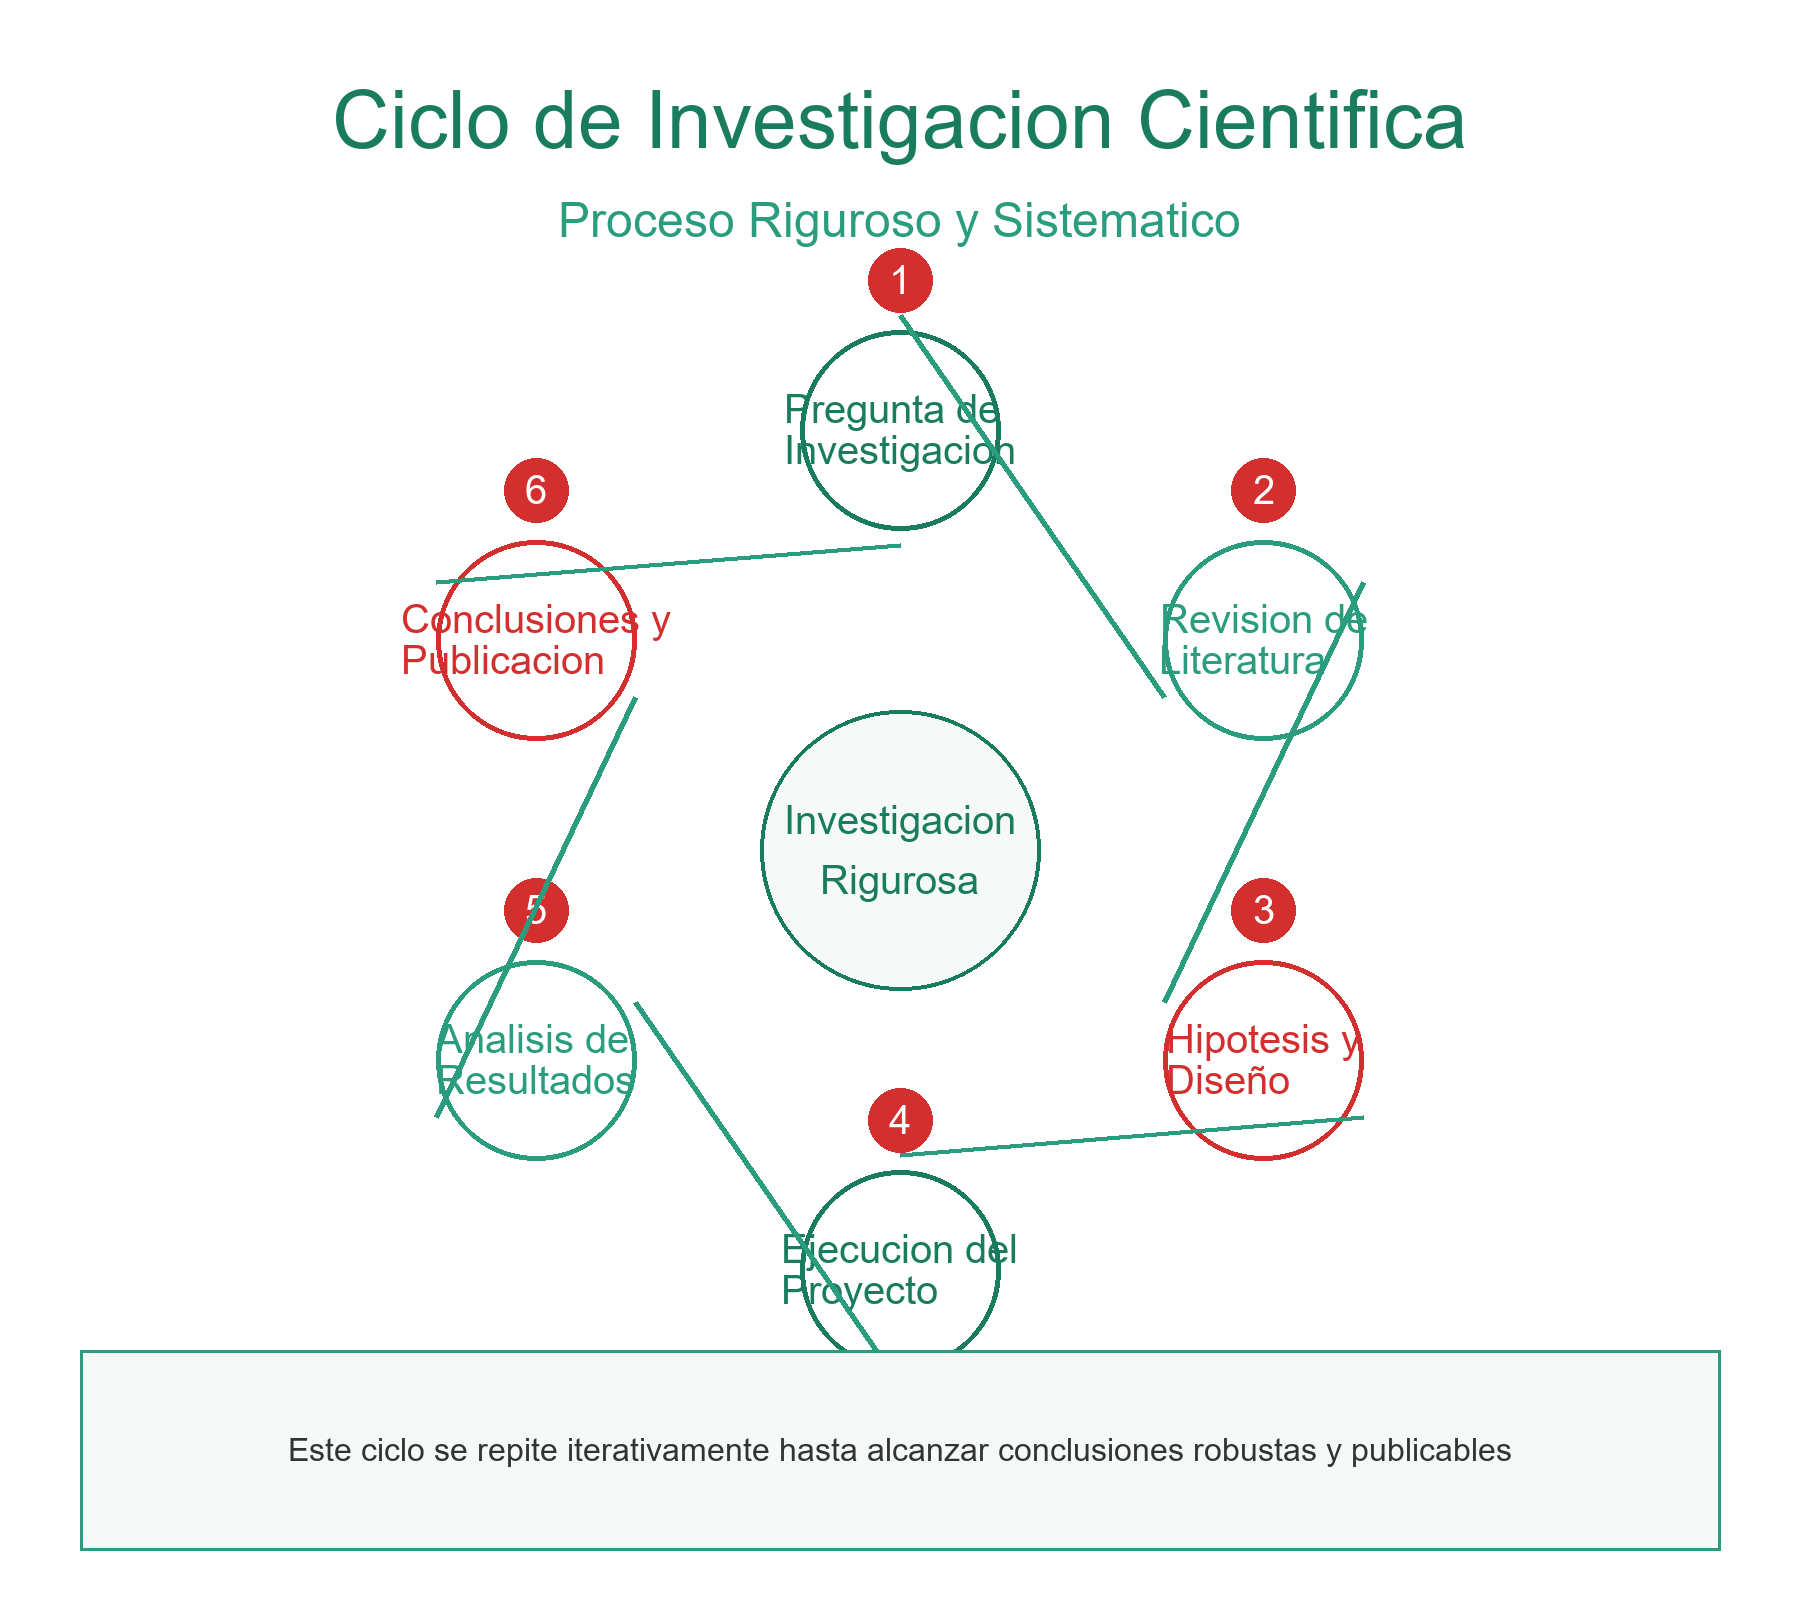
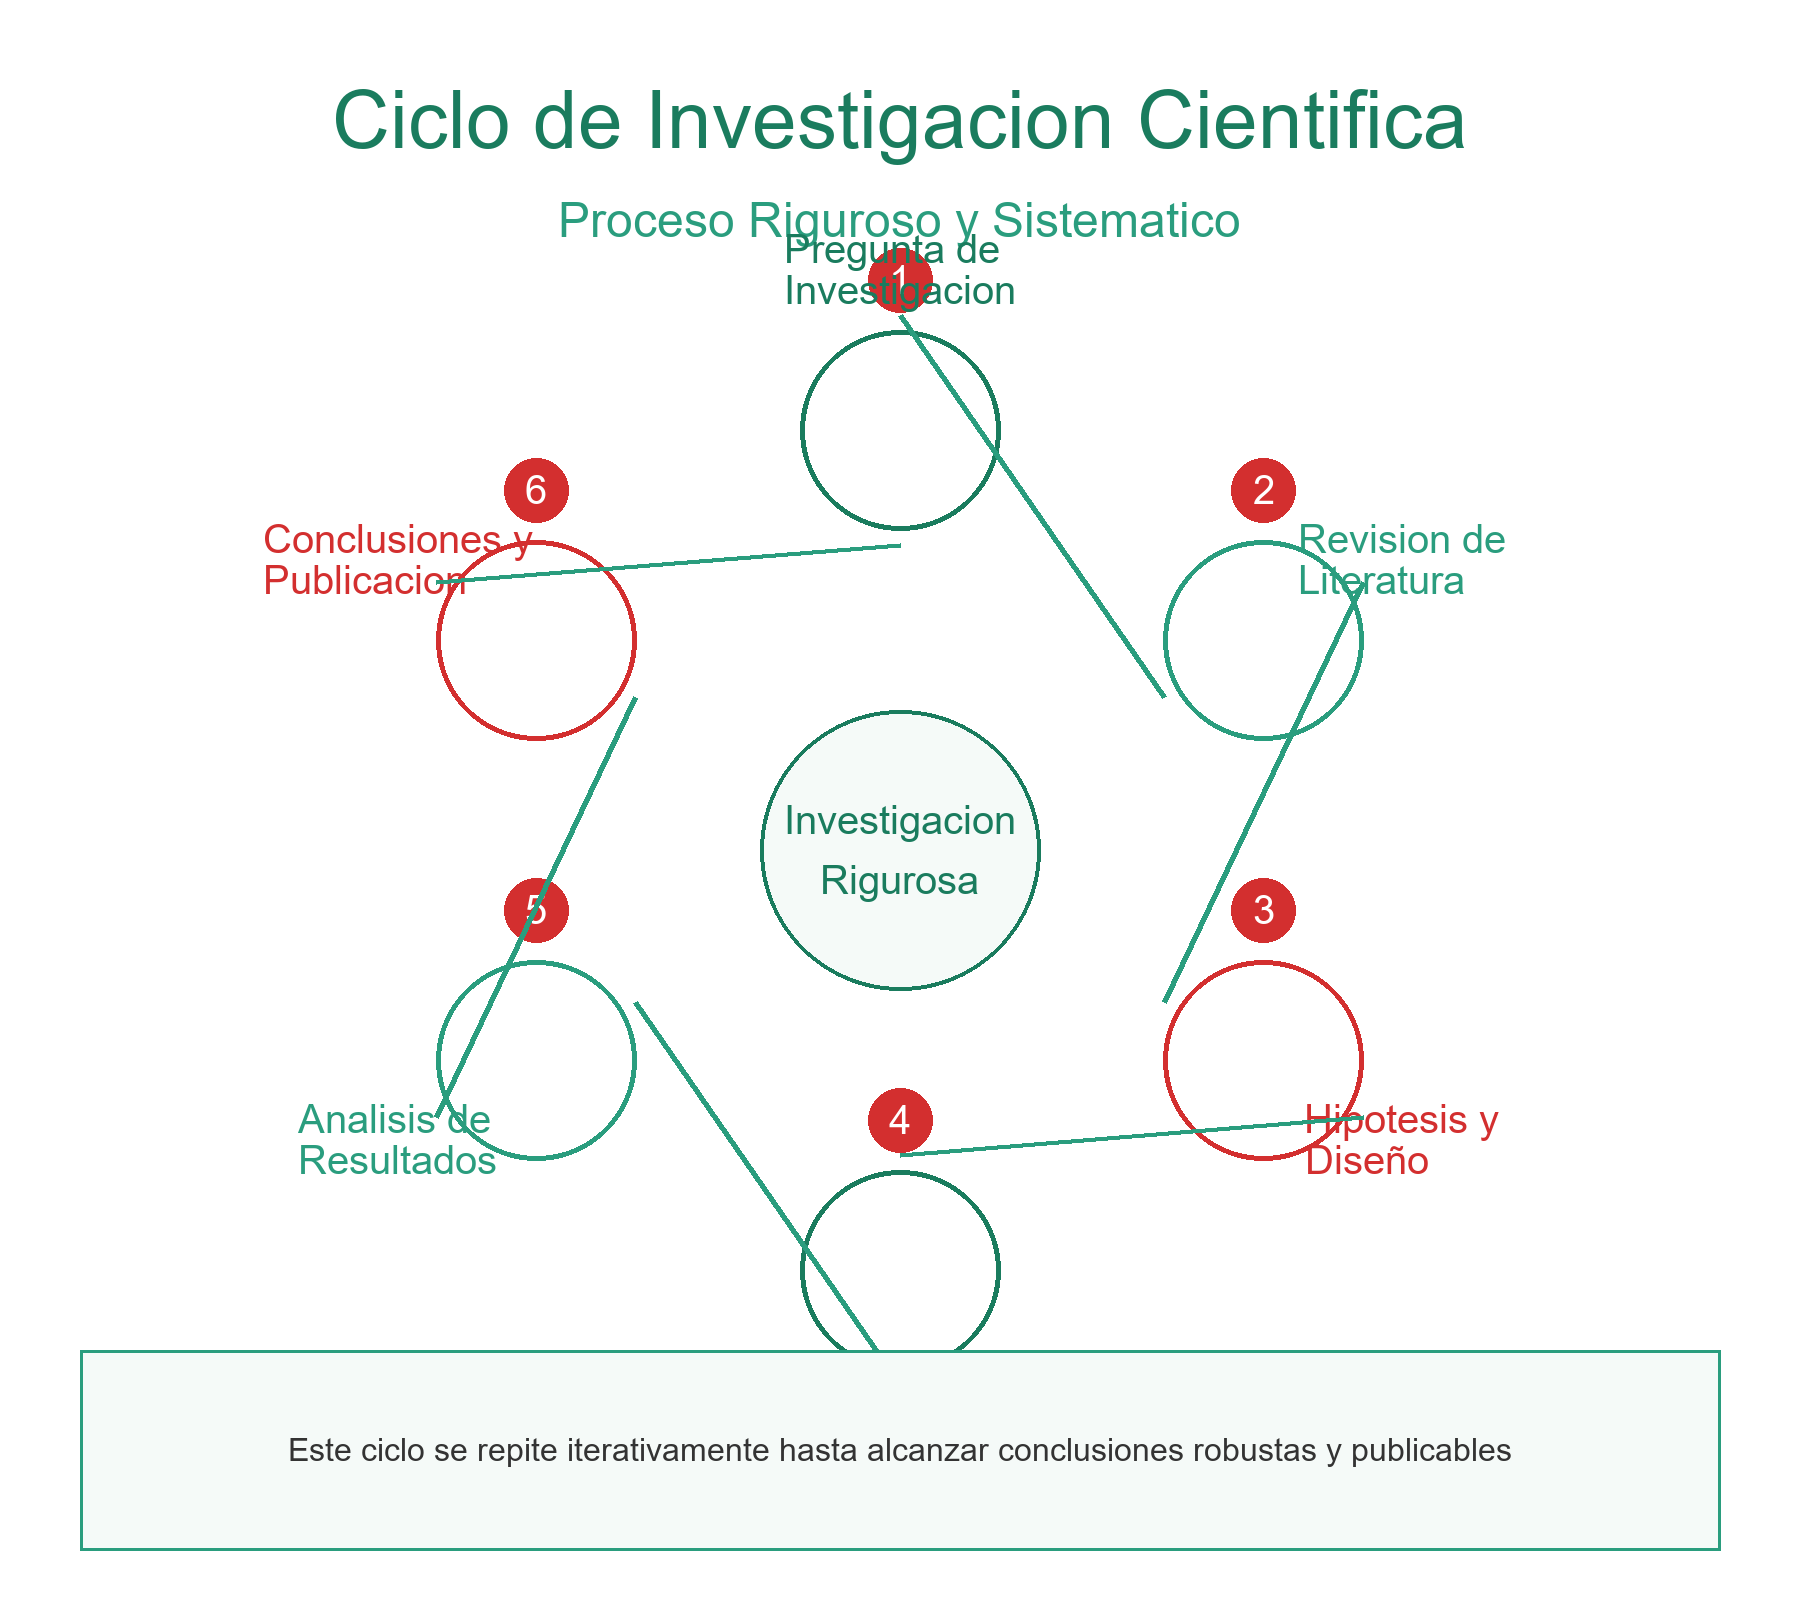
improve: Position cycle diagram labels outside circles for better clarity

diff --git a/Pagina Web/generate_research_diagrams_pil.py b/Pagina Web/generate_research_diagrams_pil.py
@@ -195,8 +195,11 @@ for i, title in enumerate(cycle_steps):
     draw2.text((x, num_y), str(i+1),
                font=step_title_font, fill='white', anchor="mm")
     
-    # Etiqueta (en el circulo principal, bien centrada)
-    draw2.text((x, y), title,
+    # Etiqueta FUERA del circulo, posicionada según el ángulo
+    text_distance = circle_r + 60
+    text_x = x + text_distance * math.cos(rads)
+    text_y = y + text_distance * math.sin(rads)
+    draw2.text((text_x, text_y), title,
                font=step_title_font, fill=color, anchor="mm")
     
     # Flecha al siguiente paso
